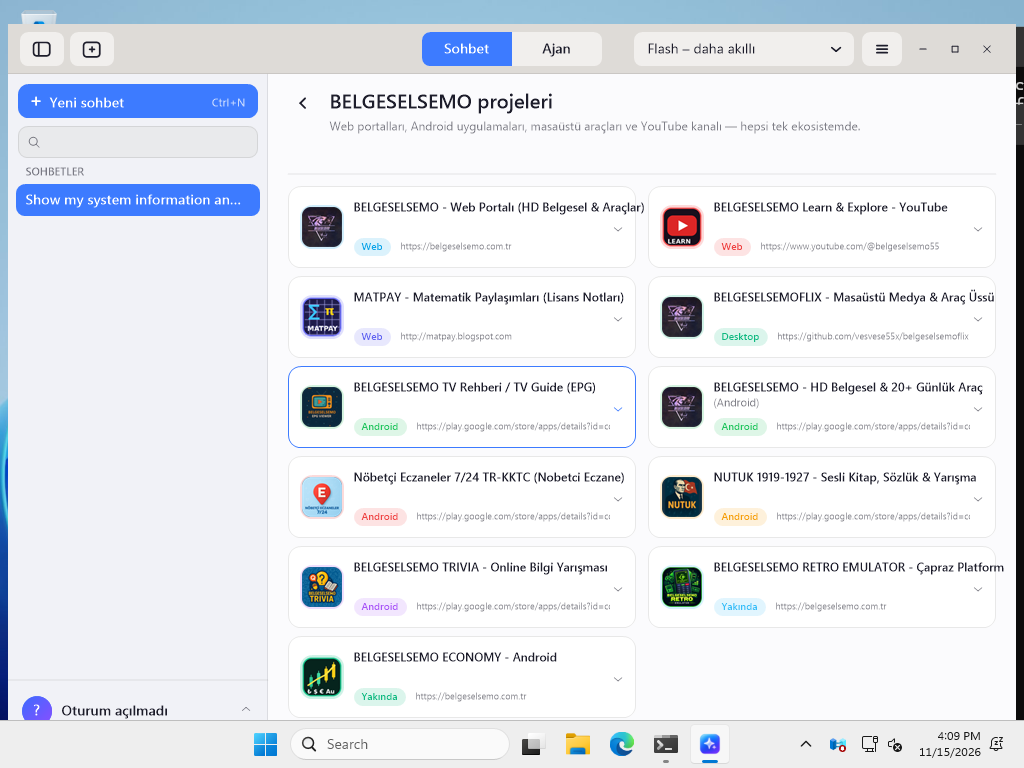
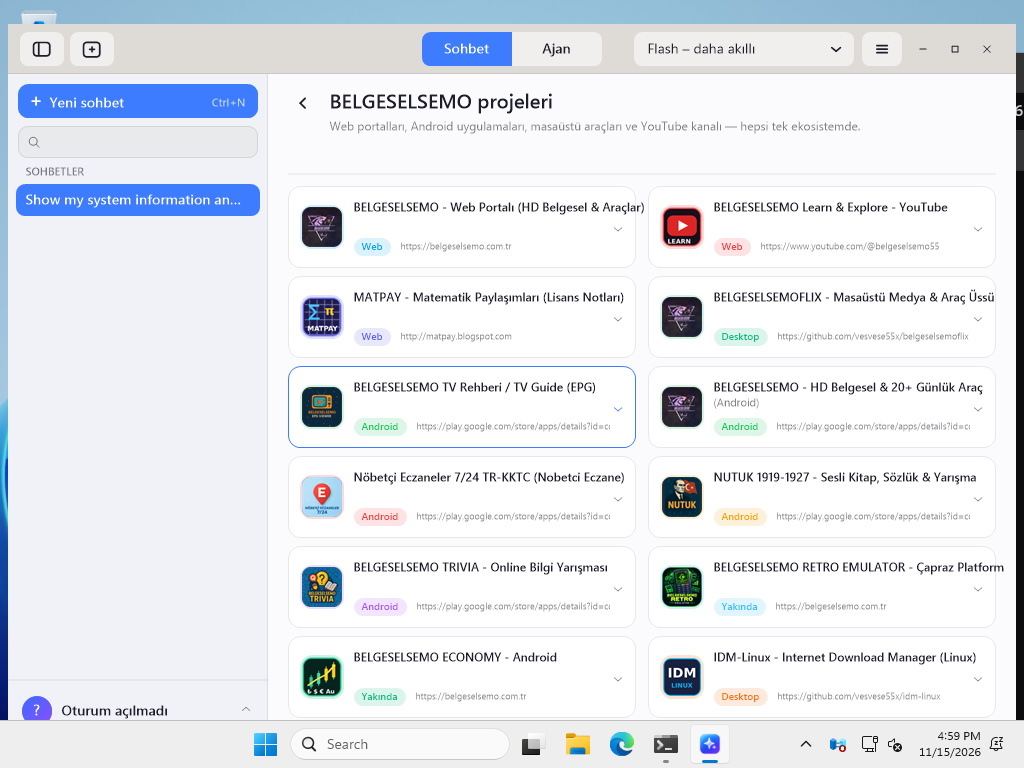
docs: Projelerimiz gorseli IDM-Linux'li yeni screenshot ile degisti, yazi 12 proje [skip ci]

Changed region(s): [[0.625, 0.8438, 0.9688, 0.9375], [0.9688, 0.0312, 1.0, 0.2188]]

diff --git a/README.md b/README.md
@@ -85,7 +85,7 @@
 <table>
 <tr>
 <td width="50%"><img src="promo/assets/screens/win/05-hosgeldin-atif.png" alt="Windows — karşılama ve atıf notu"><br><sub><strong>Karşılama + atıf notu</strong> — BELGESELSEMO · Z.AI · orijinal LuxOS notu ve tıklanabilir <code>belgeselsemo.com.tr</code></sub></td>
-<td width="50%"><img src="promo/assets/screens/win/04-projelerimiz.png" alt="Windows — Projelerimiz kataloğu"><br><sub><strong>Projelerimiz</strong> — Ayarlar ile LuxAI Hesabı arasında, 11 proje kategori rozetleriyle</sub></td>
+<td width="50%"><img src="promo/assets/screens/win/04-projelerimiz.png" alt="Windows — Projelerimiz kataloğu"><br><sub><strong>Projelerimiz</strong> — Ayarlar ile LuxAI Hesabı arasında, 12 proje kategori rozetleriyle</sub></td>
 </tr>
 <tr>
 <td width="50%"><img src="promo/assets/screens/win/02-giris-yeni-hesap.png" alt="Windows — Yeni hesap sekmesi"><br><sub><strong>Giriş · Yeni hesap</strong> — ad, e-posta, en az 12 karakterlik parola</sub></td>
